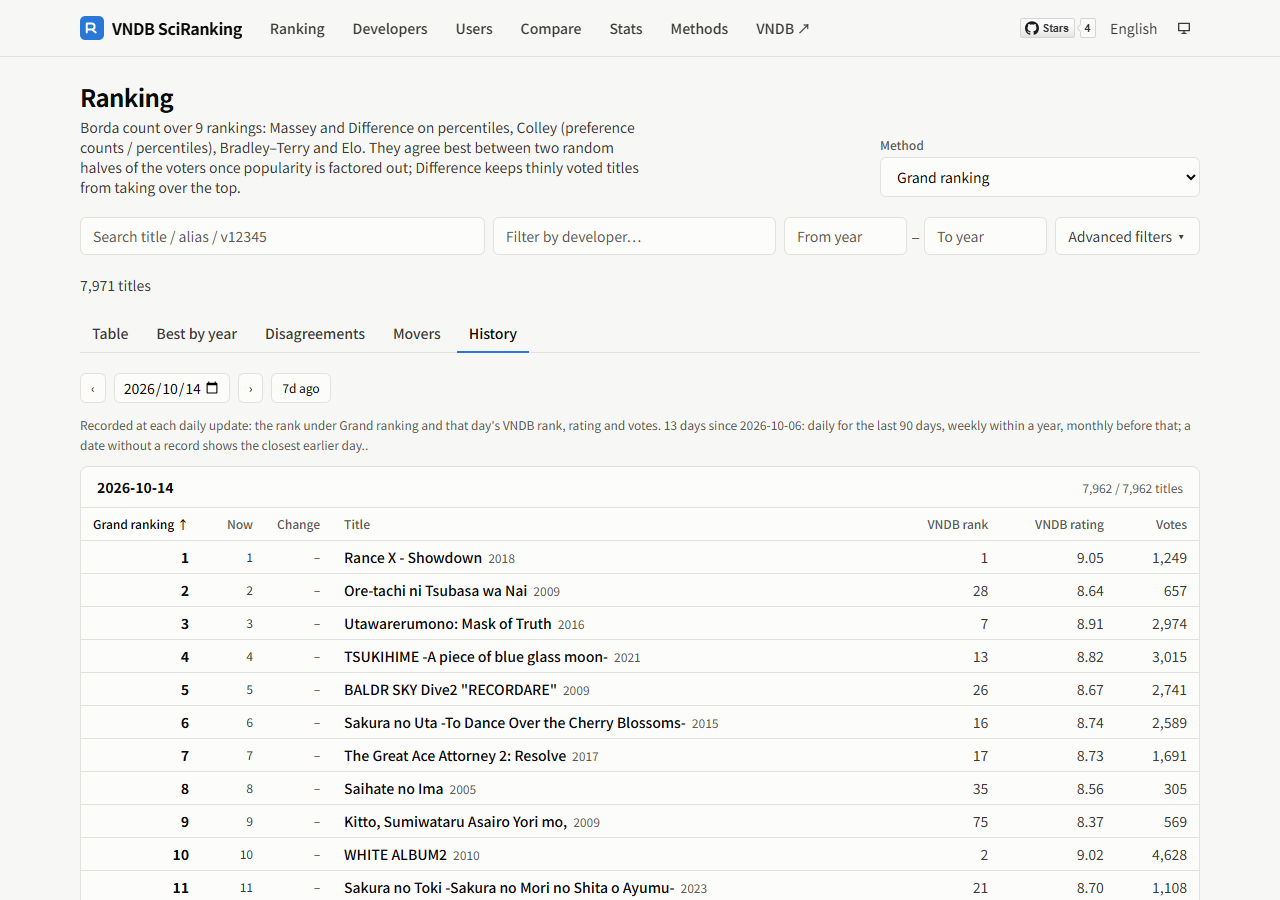
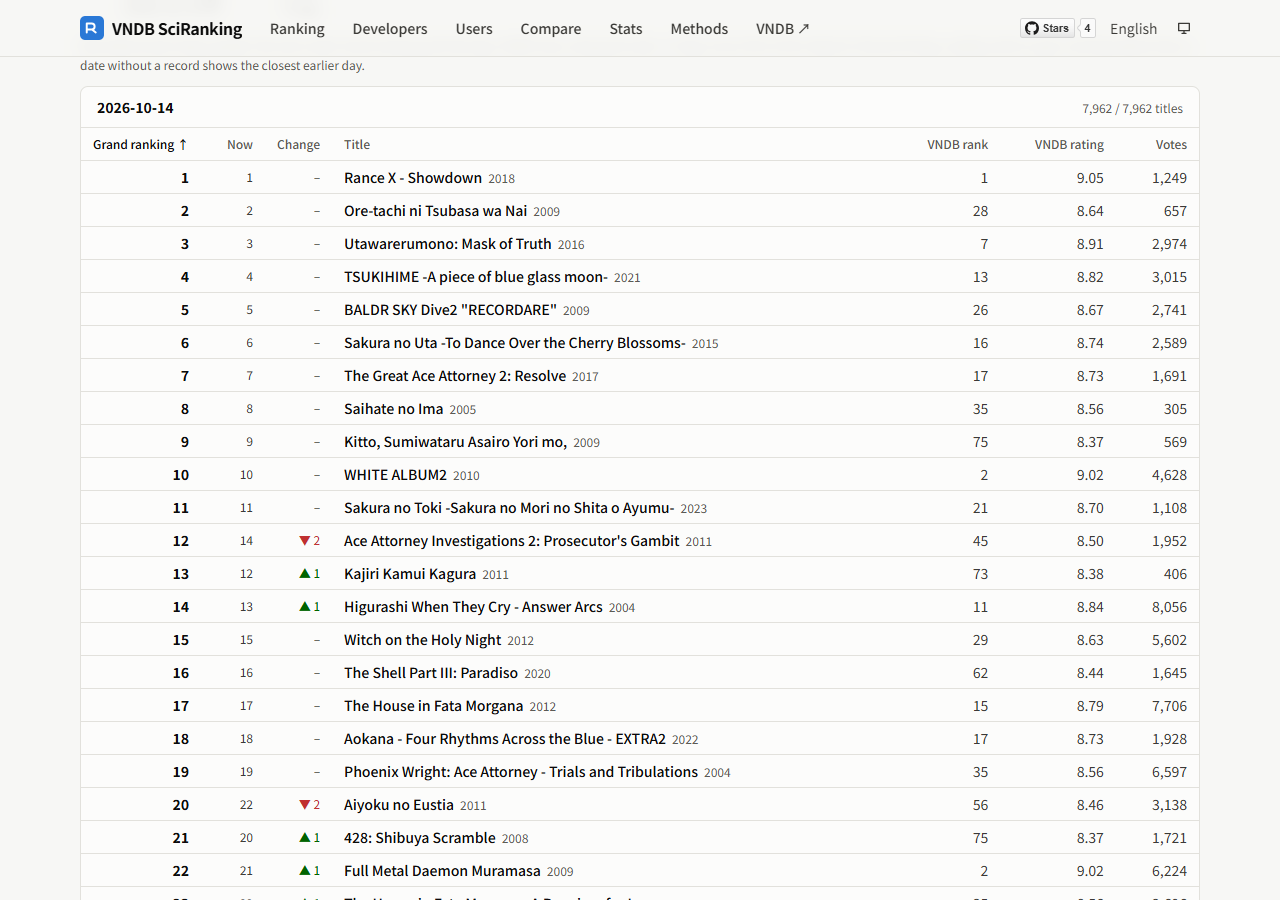
fix(web): overflow-y-hidden

diff --git a/web/src/pages/Methods.tsx b/web/src/pages/Methods.tsx
@@ -88,7 +88,7 @@ function RankitGrid({ methods }: { methods: string[] }) {
     <section>
       <h2 className="text-lg font-semibold">{t("methods.group.rankit")}</h2>
       <p className="mt-1 mb-3 max-w-3xl text-sm text-ink-2">{t("methods.rankitHint")}</p>
-      <div className="overflow-x-auto rounded-lg border border-line bg-surface">
+      <div className="overflow-x-auto overflow-y-hidden rounded-lg border border-line bg-surface">
         <table className="w-full min-w-[640px] text-sm">
           <thead className="text-left text-xs text-ink-3">
             <tr>
@@ -147,7 +147,7 @@ function Heatmap({ kendall }: { kendall: Meta["kendall"] }) {
       <div className="mt-2 h-5 text-xs text-ink-2 tabular" aria-live="polite">
         {h}
       </div>
-      <div className="overflow-x-auto">
+      <div className="overflow-x-auto overflow-y-hidden">
         <table className="border-separate border-spacing-[2px] text-[11px]" onMouseLeave={() => setHover(null)}>
           <tbody>
             {methods.map((m, i) => (

diff --git a/web/src/components/Charts.tsx b/web/src/components/Charts.tsx
@@ -233,7 +233,7 @@ export function Matrix({
           </>
         )}
       </div>
-      <div className="flex items-center justify-center gap-1 overflow-x-auto">
+      <div className="flex items-center justify-center gap-1 overflow-x-auto overflow-y-hidden">
         <div className="shrink-0 text-xs font-medium text-ink-2 [writing-mode:vertical-rl] [text-orientation:sideways] rotate-180">{yName} →</div>
         <table className="border-separate border-spacing-[2px] text-[10px]" role="img" aria-label={label} onMouseLeave={() => setHover(null)}>
           <tbody>

diff --git a/web/src/pages/ranking/History.tsx b/web/src/pages/ranking/History.tsx
@@ -112,7 +112,7 @@ export default function History() {
             <h2 className="text-sm font-semibold">{dayToDate(day!)}</h2>
             <span className="tabular text-xs text-ink-3">{t("rank.history.count", { n: list.length.toLocaleString(), total: hist.data.n.toLocaleString() })}</span>
           </div>
-          <div className="overflow-x-auto">
+          <div className="overflow-x-auto overflow-y-hidden">
             <table className="w-full text-sm">
               <thead className="border-b border-line text-left text-xs text-ink-3">
                 <tr>

diff --git a/web/src/pages/dev/DevPage.tsx b/web/src/pages/dev/DevPage.tsx
@@ -167,7 +167,7 @@ function DevPicker({ devs, exclude, onPick, name }: { devs: DevStats[]; exclude:
 function VnTable({ d }: { d: DevStats }) {
   const { t, lang } = useI18n();
   const table = (items: DevStats["vns"]) => (
-      <div className="overflow-x-auto rounded-lg border border-line bg-surface">
+      <div className="overflow-x-auto overflow-y-hidden rounded-lg border border-line bg-surface">
         <table className="w-full text-sm">
           <thead className="whitespace-nowrap border-b border-line text-left text-xs text-ink-3">
             <tr>

diff --git a/web/src/pages/vn/Ranks.tsx b/web/src/pages/vn/Ranks.tsx
@@ -114,7 +114,7 @@ function RankitTable({ vn, scale }: { vn: Ranked; scale: RankScale }) {
   if (!vars.length) return null;
 
   return (
-    <section className="overflow-x-auto rounded-lg border border-line bg-surface">
+    <section className="overflow-x-auto overflow-y-hidden rounded-lg border border-line bg-surface">
       <table className="w-full min-w-[640px] text-sm">
         <caption className="px-3 pt-2 text-left text-xs font-medium text-ink-3">{t("methods.group.rankit")}</caption>
         <thead className="text-left text-xs text-ink-3">

diff --git a/web/src/components/Tags.tsx b/web/src/components/Tags.tsx
@@ -194,7 +194,7 @@ function TagTable({ rows, kind, hint, spoil, setSpoil }: { rows: TagRow[]; kind:
         )}
         <span className="tabular ml-auto text-ink-3">{t("tags.count", { n: shown.length, total: rows.length })}</span>
       </div>
-      <div className="overflow-x-auto">
+      <div className="overflow-x-auto overflow-y-hidden">
         <table className="w-full text-sm">
           <thead className="border-b border-line text-left text-xs text-ink-3">
             <tr>{cols.map(([k, label, num]) => head(k, label, num))}</tr>

diff --git a/web/src/components/Tabs.tsx b/web/src/components/Tabs.tsx
@@ -4,7 +4,7 @@ import { NavLink, useLocation } from "react-router";
 export function Tabs({ base, tabs }: { base: string; tabs: { path: string; label: string }[] }) {
   const { search } = useLocation();
   return (
-    <nav className="-mx-4 overflow-x-auto px-4" aria-label="tabs">
+    <nav className="-mx-4 overflow-x-auto overflow-y-hidden px-4" aria-label="tabs">
       <div className="flex min-w-max gap-1 border-b border-line">
         {tabs.map((t) => (
           <NavLink

diff --git a/web/src/pages/user/Votes.tsx b/web/src/pages/user/Votes.tsx
@@ -33,7 +33,7 @@ export default function UserVotes() {
     </th>
   );
   const table = (list: JoinedVote[]) => (
-    <div className="overflow-x-auto rounded-lg border border-line bg-surface">
+    <div className="overflow-x-auto overflow-y-hidden rounded-lg border border-line bg-surface">
       <table className="w-full table-fixed text-sm">
         <thead className="whitespace-nowrap border-b border-line text-left text-xs text-ink-2">
           <tr>

diff --git a/web/src/pages/dev/DevList.tsx b/web/src/pages/dev/DevList.tsx
@@ -59,7 +59,7 @@ export default function DevList() {
 
   function table(items: DevStats[]) {
     return (
-      <div className="overflow-x-auto rounded-lg border border-line bg-surface">
+      <div className="overflow-x-auto overflow-y-hidden rounded-lg border border-line bg-surface">
         <table className="w-full text-sm">
           <thead className="whitespace-nowrap border-b border-line text-left text-xs text-ink-2">
             <tr>
